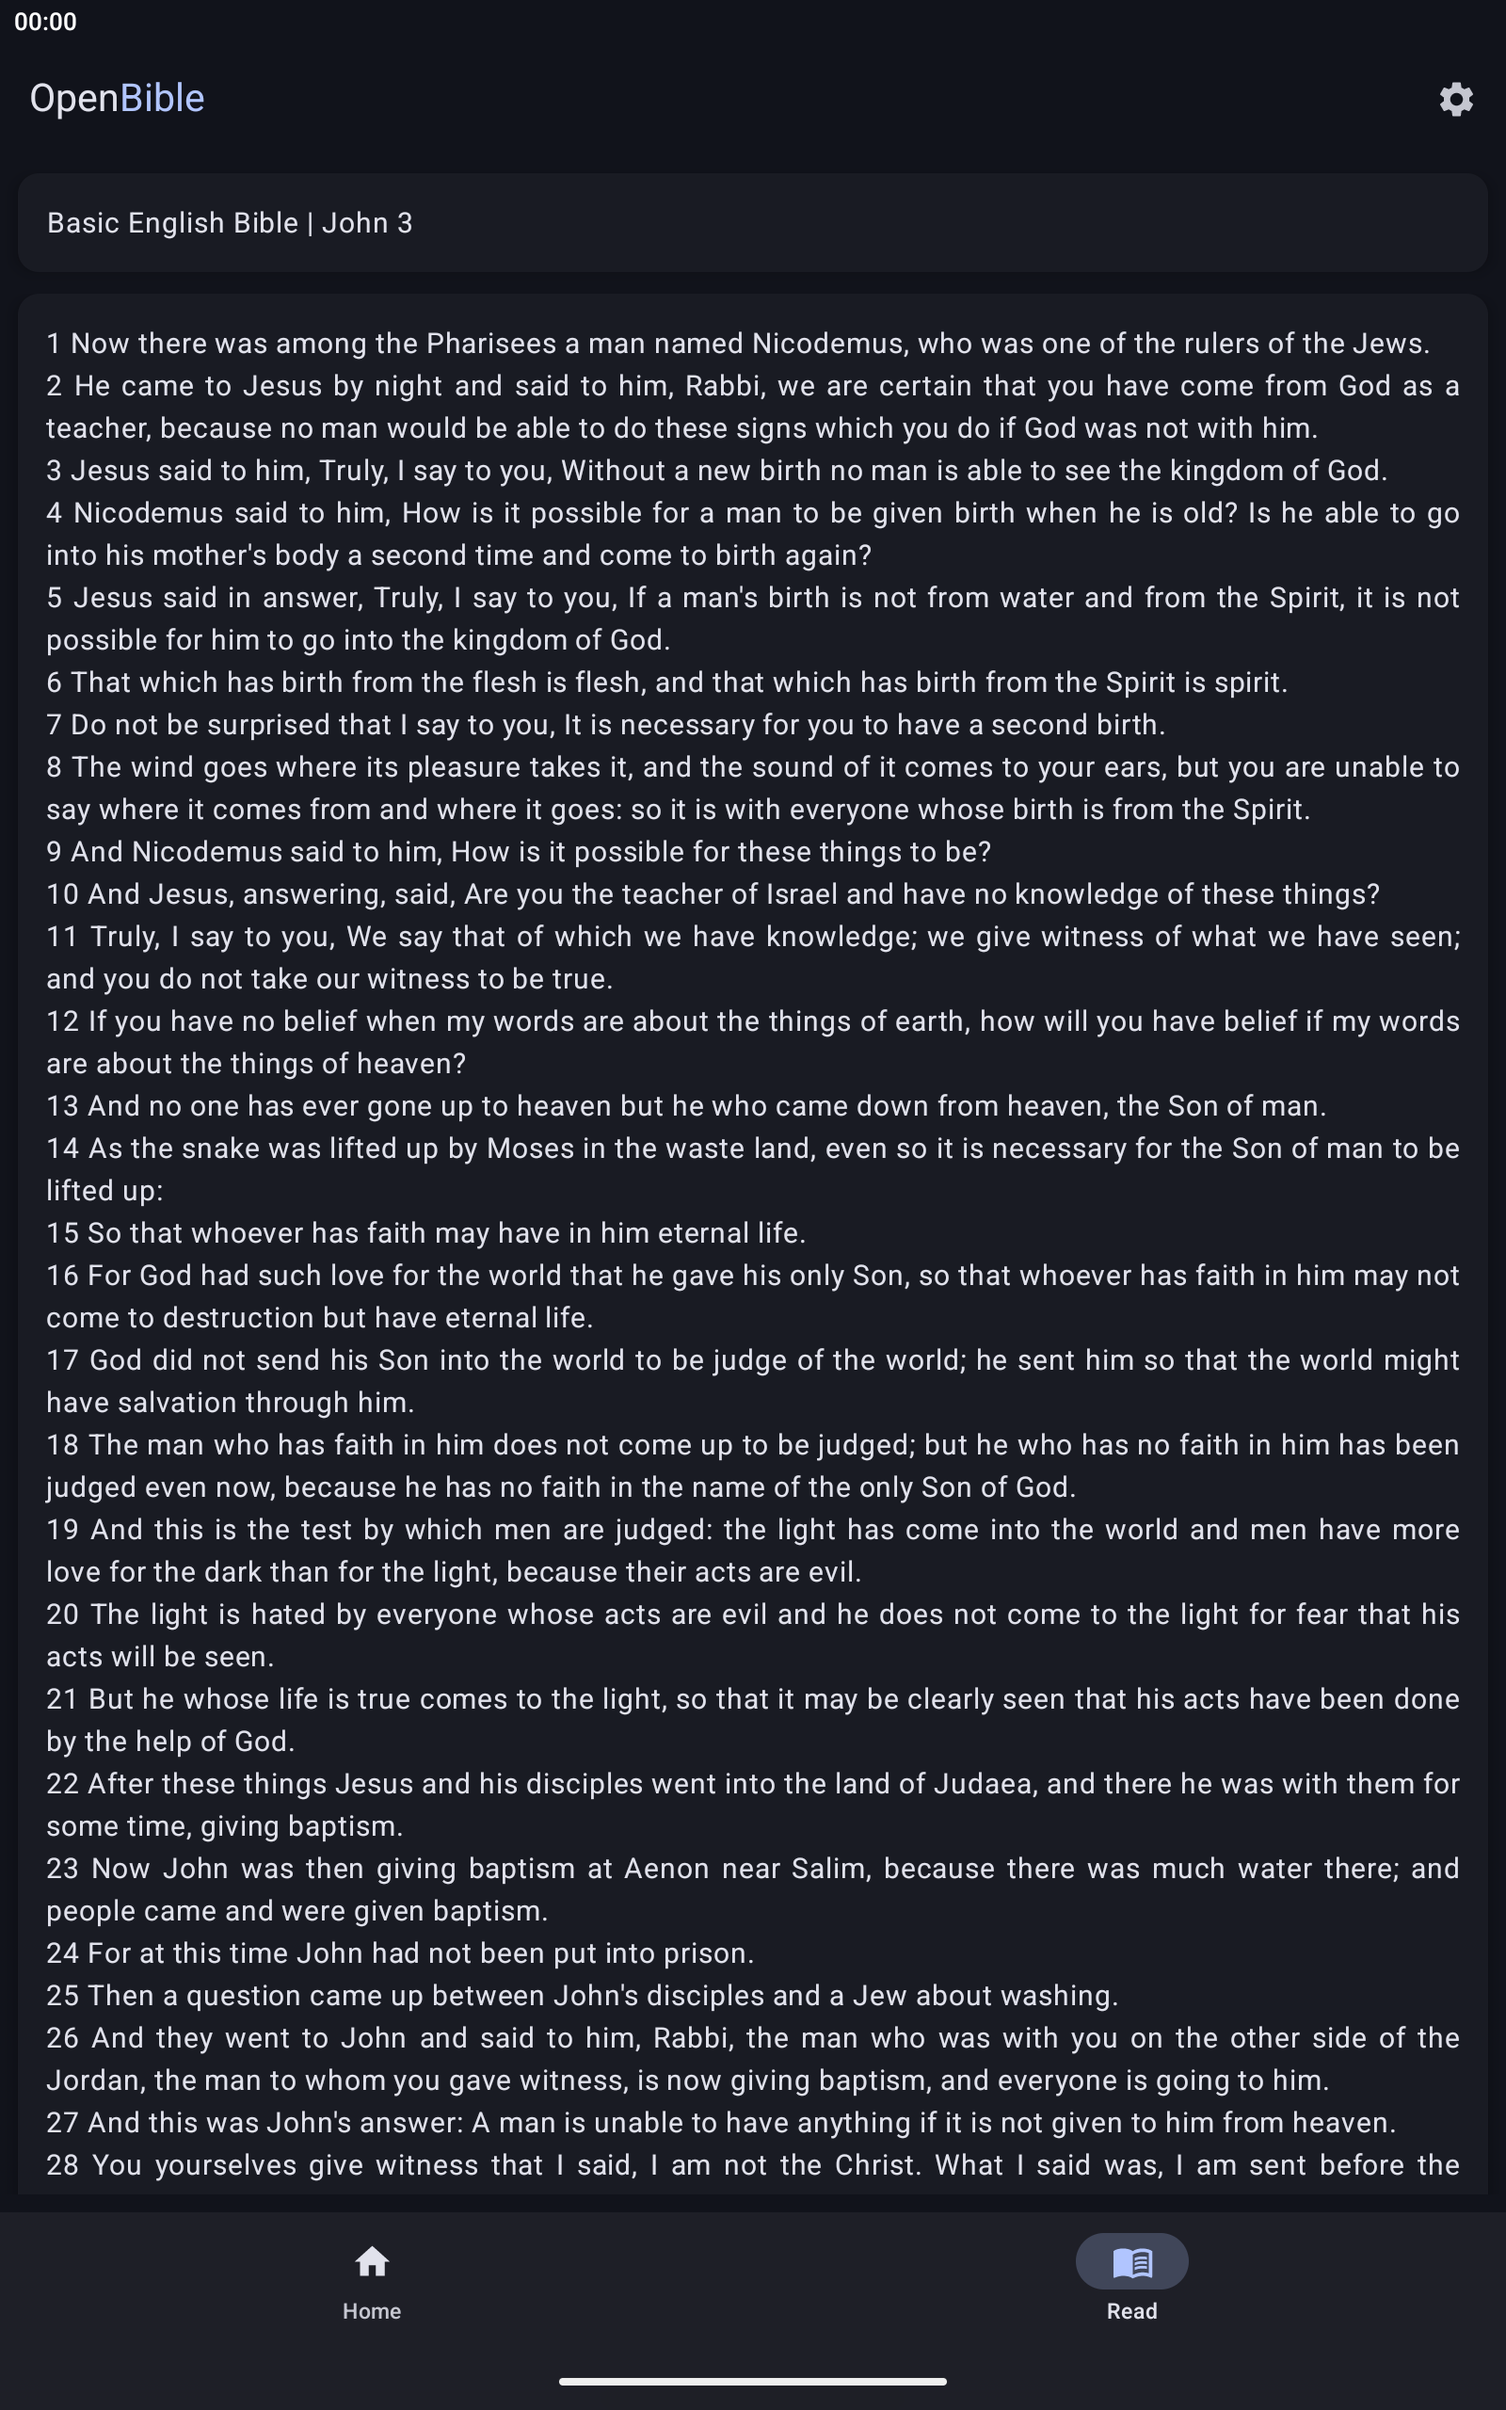
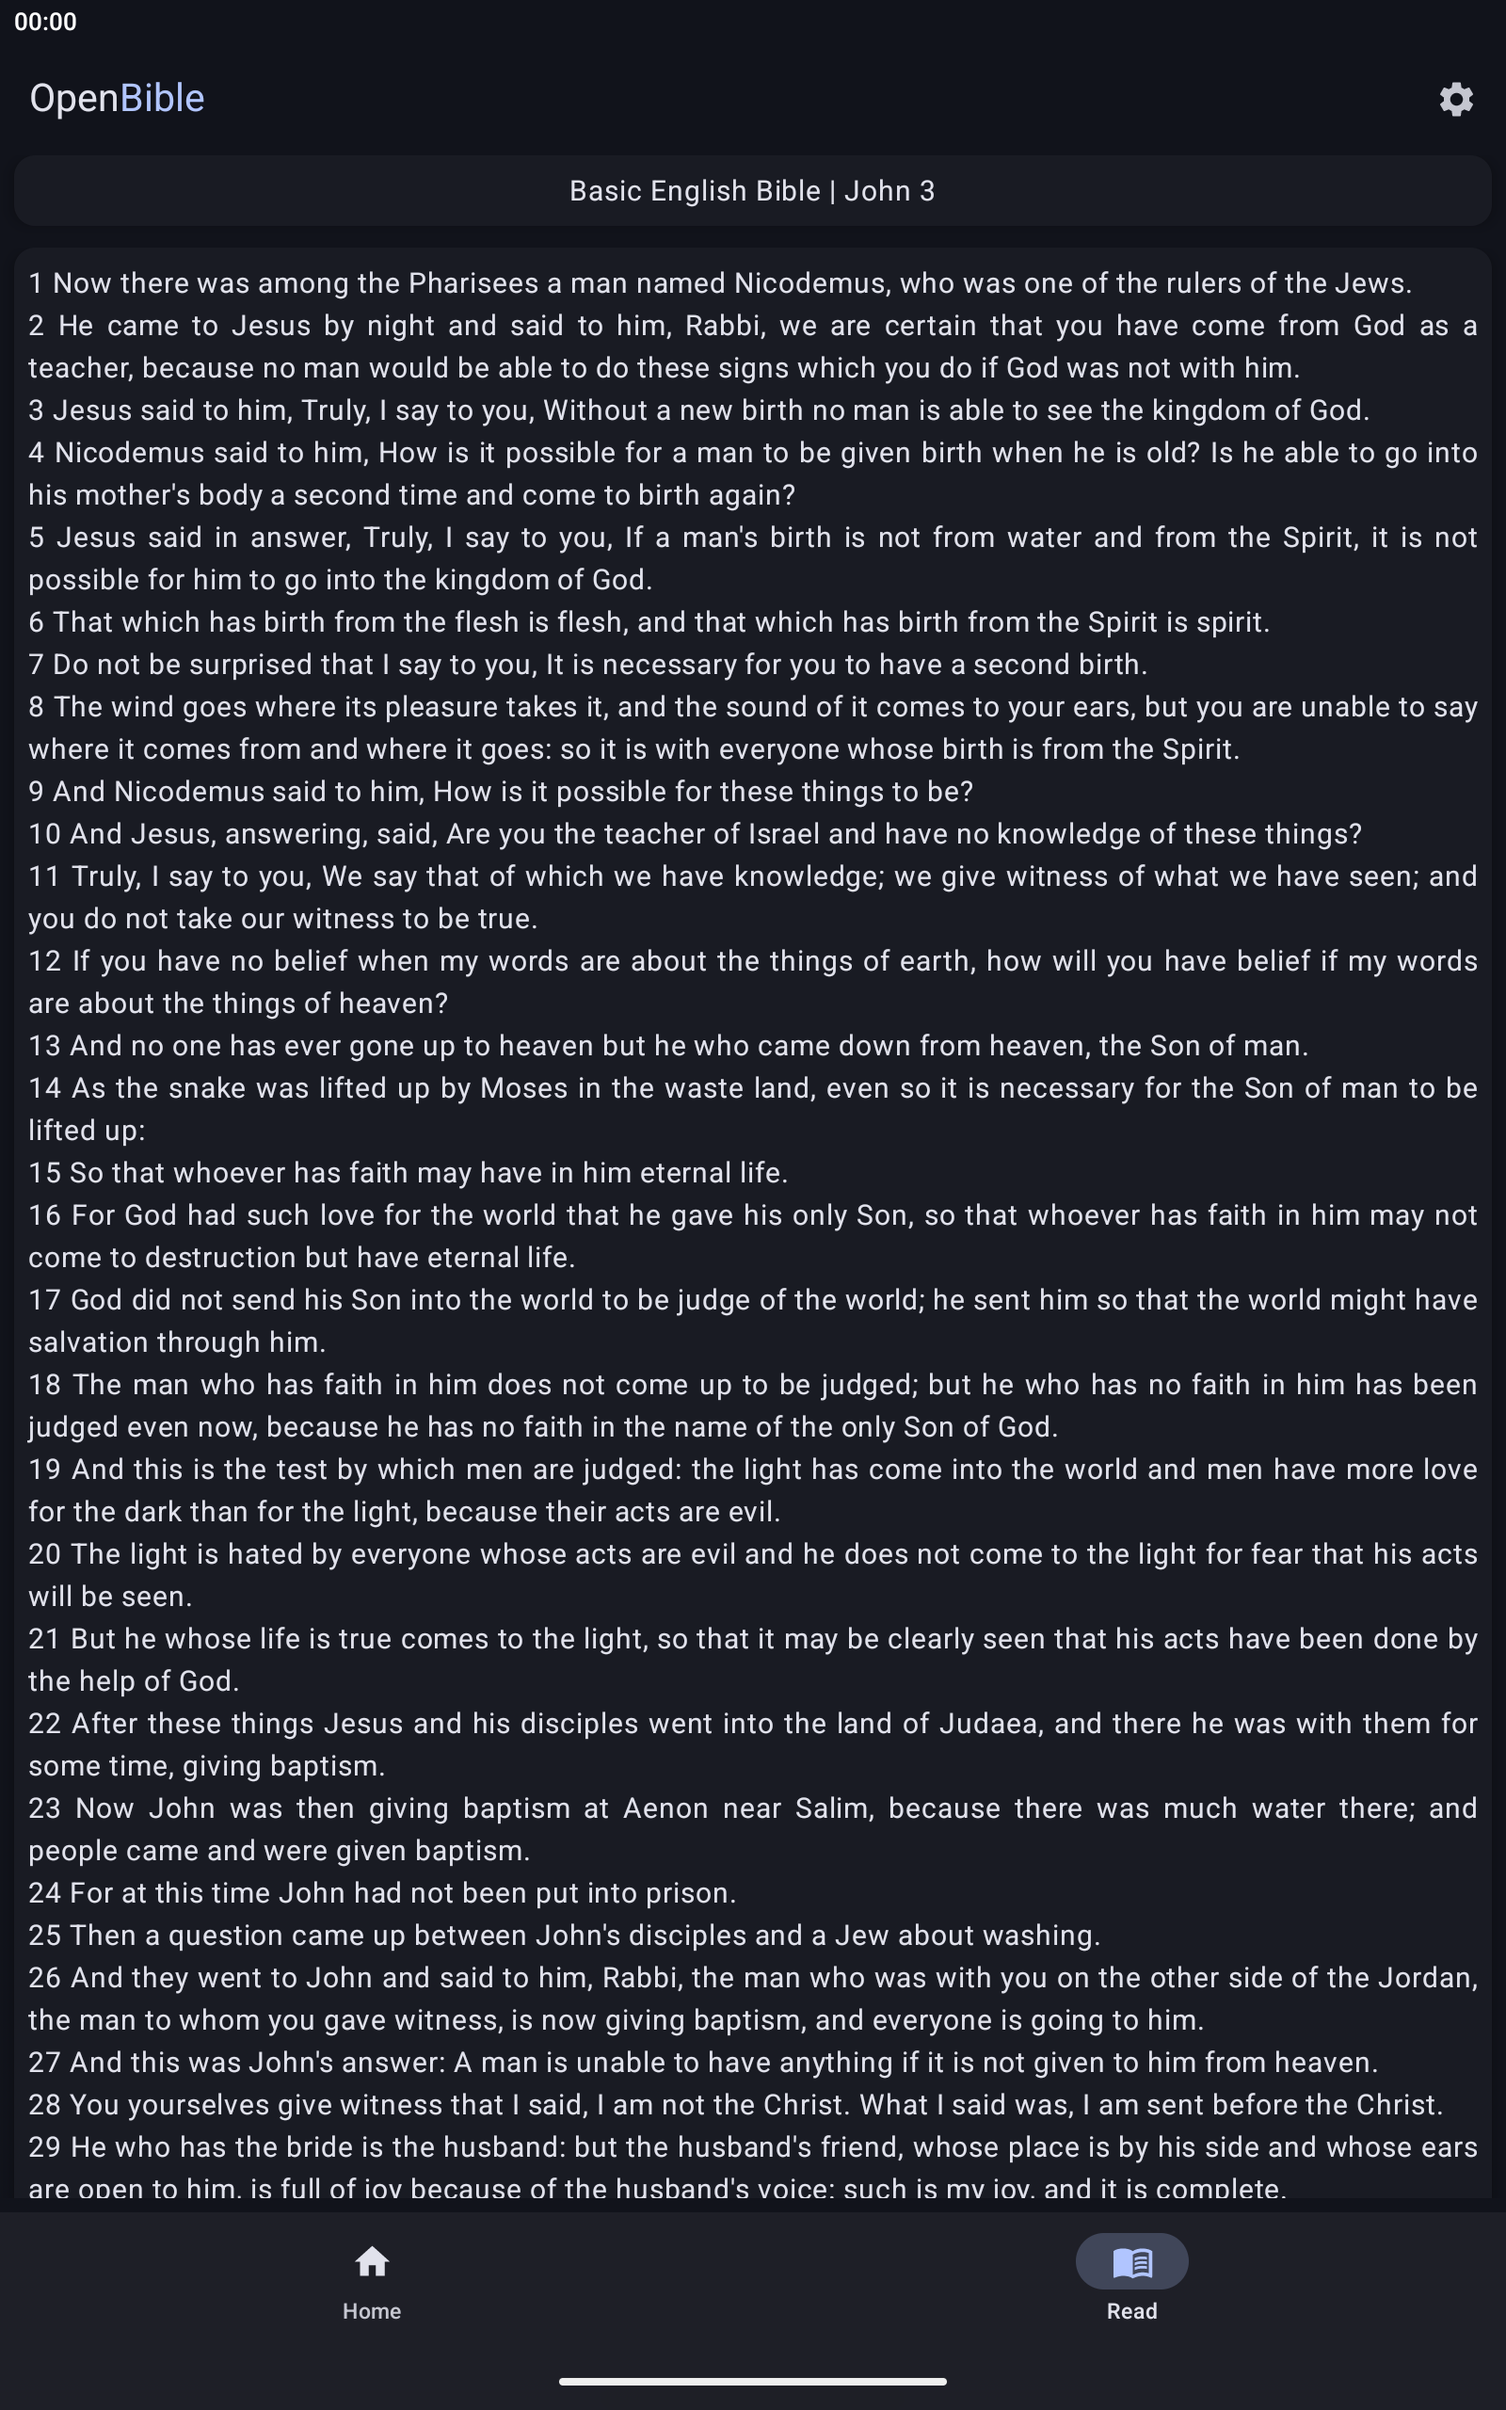
chore: bump to 0.5.0

diff --git a/CHANGELOG.md b/CHANGELOG.md
@@ -2,6 +2,23 @@
 
 All notable changes to this project will be documented in this file.
 
+## [0.5.0] - 2024-11-18
+
+### 🚀 Features
+
+- Select text style (alignment)
+
+### 🎨 Styling
+
+- Reformat code
+- Adjust button widths in settings
+- Remove custom NavBar size
+
+### ⚙ Miscellaneous Tasks
+
+- *(metadata)* Update screenshots
+- Add androidx.navigation dependency
+
 ## [0.4.0] - 2024-11-14
 
 ### 🚀 Features
@@ -20,6 +37,7 @@ All notable changes to this project will be documented in this file.
 ### ⚙ Miscellaneous Tasks
 
 - Update dependencies
+- Bump to 0.4.0
 
 ## [0.3.0] - 2024-11-10
 
